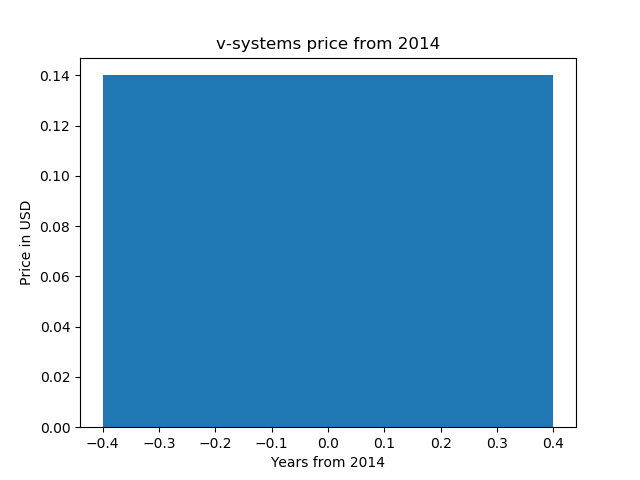
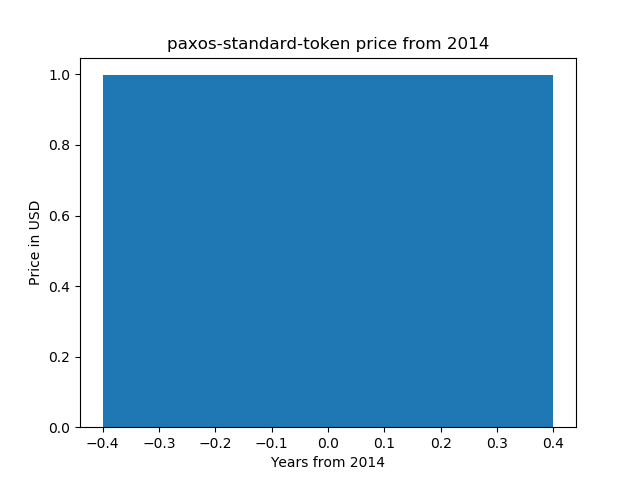
first commit

diff --git a/example.py b/example.py
@@ -10,7 +10,7 @@ from time import gmtime, strftime
 import matplotlib.pyplot as plt
 
 enddate = strftime("%Y%m%d", gmtime())
-r  = requests.get("https://coinmarketcap.com/currencies/v-systems/historical-data/?start=20140101&end={0}".format(enddate))
+r  = requests.get("https://coinmarketcap.com/currencies/paxos-standard-token/historical-data/?start=20140101&end={0}".format(enddate))
 data = r.text
 
 soup = BeautifulSoup(data, "html.parser")
@@ -44,7 +44,7 @@ print(x)
 
 x = list(range(0, len(prices)))
 
-plt.title('v-systems price from 2014')
+plt.title('paxos-standard-token price from 2014')
 plt.ylabel('Price in USD')
 plt.xlabel('Years from 2014')
 plt.bar(x, prices)

diff --git a/README.md b/README.md
@@ -1,6 +1,6 @@
-# v-systems price chart 
+# paxos-standard-token price chart 
 
-v-systems price chart (matplotlib, python)
+paxos-standard-token price chart (matplotlib, python)
 
 https://pythonprogramminglanguage.com
 
